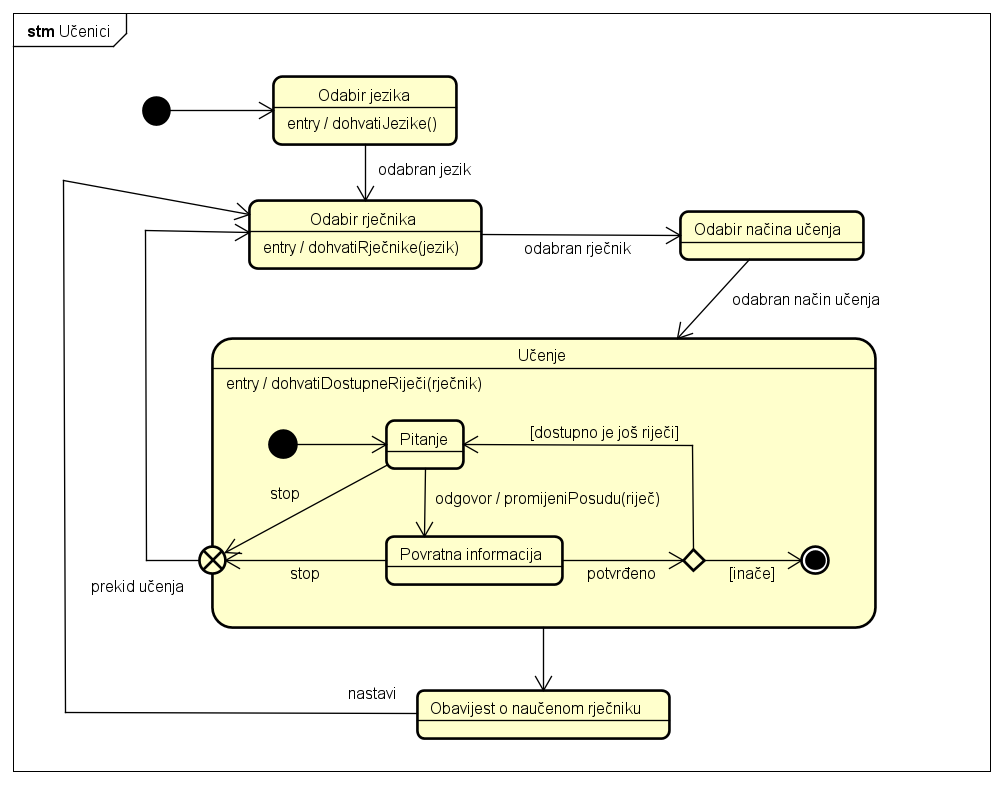
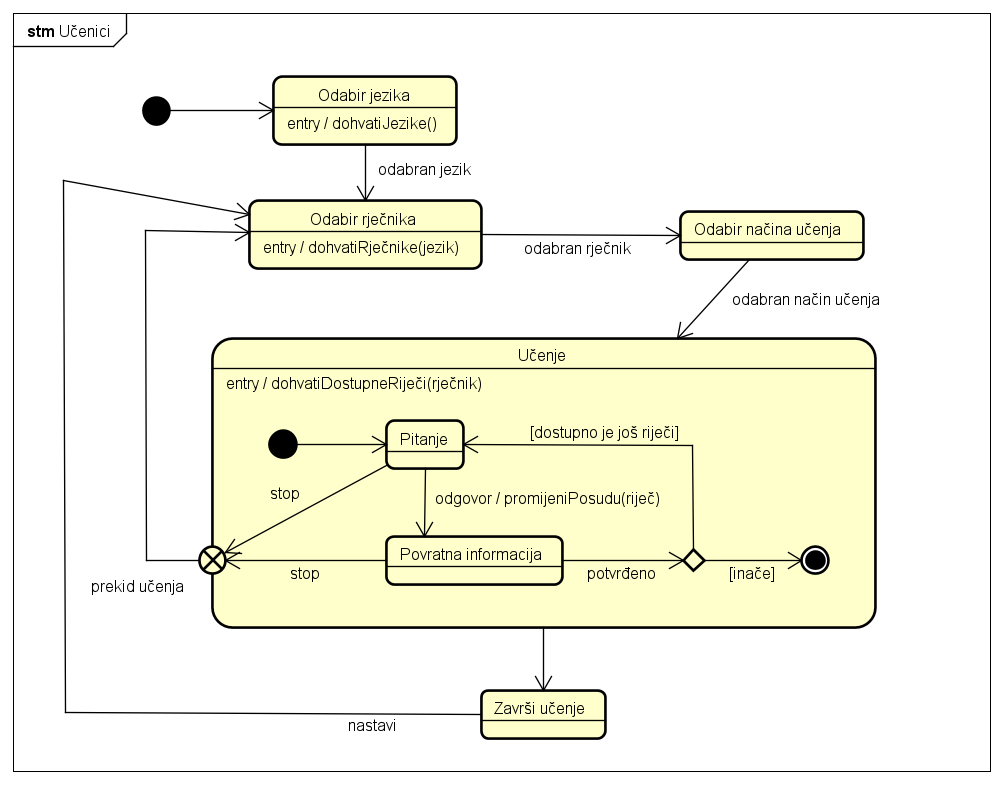
Dodao opise za preostale dijagrame

Changed region(s): [[0.3396, 0.8561, 0.6793, 0.9478], [0.247, 0.8866, 0.3088, 0.9172]]

diff --git a/dokumentacija/Arhitektura.tex b/dokumentacija/Arhitektura.tex
@@ -289,7 +289,7 @@ koja provjerava promjenu lozinke. Atributi su privatni i razred ima javni konstr
 
 \subsection{Razredi na frontendu}
 
-Razredi na frontend dijelu aplikacije podijeljeni su u tri skupine. Isječke (slices) u kojima se spremaju podaci tipa Models, a čije metode primaju podatke iz Inputs skupine razreda. Kako su isječci međusobno neovisni i radi preglednosti razredi na klijentskom dijelu aplikacije prikazani su u nekoliko dijagrama, ovisno o isječku s kojim su povezani.
+Razredi na frontend dijelu aplikacije podijeljeni su u tri skupine. Isječke (slices) u kojima se spremaju podaci tipa Models, a čije metode primaju podatke iz Inputs skupine razreda. Kako su isječci međusobno neovisni, ali i radi preglednosti, razredi na klijentskom dijelu aplikacije prikazani su u više dijagrama, ovisno o isječku u kojem se koriste.
 \begin{description}
 	\item[Modeli] su reprezentacije entiteta s backend dijela aplikacije. Backend modeli ne preslikavaju se izravno u odgovarajuće frontend modele, već se proširuju s dodatnim podacima iz povezanih tablica. Tako, primjerice, dok razredi Riječ i Fraza na backendu nisu povezani, razred Riječ na frontendu u sebi ima listu objekata razreda Fraza.
 	\item[Input] razredi predstavljaju \textit{data transfer} objekte. Objekti tog razreda izravno se mogu pohraniti u tijelo HTTP zahtjeva i odgovaraju onoj strukturi u kojoj  pojedina pristupna točka na backendu očekuje primiti podatke.
@@ -361,14 +361,20 @@ Razredi na frontend dijelu aplikacije podijeljeni su u tri skupine. Isječke (sl
 \clearpage
 
 \section{Dijagram stanja}
-	
-	
+
+Slika \ref{fig:state-ucenici} prikazuje implementirane funkcionalnosti korisničkog sučelja za učenike. Učenici započinju učenje tako što redom odabiru jezik, rječnik i način učenja. Kako bi se prikazali dostupni jezici i rječnici, prije ulaska u svako od tih stanja poziva se metoda koja dohvaća odgovarajuće podatke iz baze podatka. Netom prije početka učenja dohvaćaju se sve riječi koje su učeniku trenutno dostupne za učenje.
+
+Tijekom učenja učeniku se naizmjence prikazuju pitanja i povratne informacije o unesenim odgovorima sve dok ima dostupnih riječi ili dok učenik ne zaustavi učenje. Nakon unesenog odgovora poziva se metoda koja premješta riječ u odgovarajuću posudu. Učenik može zaustaviti učenje prije i nakon odgovora na pitanje, pri čemu odlazi u stanje za odabir rječnika. U to stanje odlazi i nakon što je odgovorio na sve trenutno dostupne riječi. 
+
 \begin{figure}[htp]
-\includegraphics[scale=0.5]{dijagrami/state_ucenici.png}
-\centering
-\caption{Dijagram stanja - sučelje za učenike}
-\label{fig:state-ucenici}
-\end{figure}
+	\includegraphics[scale=0.5]{dijagrami/state_ucenici.png}
+	\centering
+	\caption{Dijagram stanja - sučelje za učenike}
+	\label{fig:state-ucenici}
+	\end{figure}
+
+Stanja administratorskog sučelja prikazana su Slikom \ref{fig:state-admin} Četiri glavna stanja u kojima se to sučelje može nalaziti su  \emph{Odabir jezika}, |emph{Popis administratora}, \emph{Popis rječnika} i \emph{Popis riječi}. Administrator može doći u svako od tih stanja preko navigacijske trake, a ulaskom u to stanje dohvaćaju se podaci koji se trebaju prikazati na sučelju. Izuzev odabira jezika, administrator u svakom od tih stanja može brisati i stvarati odgovarajuće zapise. Pri stvaranju riječi dohvaćaju se podaci iz vanjskog API-ja i mogu se dodavati ili brisati fraze. Riječi i rječnici mogu se uređivati. Uređivanjem rječnika administrator iz njega uklanja riječi ili dodaje nove.
+
 
 \begin{figure}[htp]
 \includegraphics[scale=0.4]{dijagrami/state_administratori.png}
@@ -377,10 +383,12 @@ Razredi na frontend dijelu aplikacije podijeljeni su u tri skupine. Isječke (sl
 \label{fig:state-admin}
 \end{figure}
 	
-	
+\eject
 
 
 \section{Dijagram aktivnosti}
+
+Slikom \ref{fig:aktivnosti-izgovor} prikazano je učenje snimanjem izgovora. Odabirom načina učenja aplikacija dohvaća dostupne riječi i učeniku prikazuje pitanje. Nakon što učenik snimi izgovor i potvrdi unos, sustav obrađuje njegov odgovor: servis za ocjenjivanje izgovora analizira unos i vraća ocjenu, dok se učeniku prikazuje tijek obrade. U slučaju da je ocjena strogo manja od 5, riječ se prebacuje u prvi posudu. U protivnom se riječ prebacuje u sljedeću posudu ako ona postoji, inače se označava kao u potpunosti naučena. Promjena posude sprema se u bazu podataka, a zatim se učeniku prikazuje ocjena. Klikom na gumb završi učenje aplikacija preusmjerava korisnika na stranicu s popisom rječnika.
 	
 \begin{figure}[htp]
 \includegraphics[scale=0.4]{dijagrami/aktivnosti.png}
@@ -393,8 +401,14 @@ Razredi na frontend dijelu aplikacije podijeljeni su u tri skupine. Isječke (sl
 	\eject
 \section{Dijagram komponenti}
 
+Klijentska komponenta aplikacije organizirana je u međusobno neovisne module za pohranu stanja aplikacije i jedne upravljačke komponente preko kojeg moduli komuniciraju s ostatkom aplikacije. Svaki modul zadužen je za određeni isječak cijelog stanja aplikacije. Upravljačka komponenta nudi sučelje preko kojeg preglednik može dohvaćati podatke o stanju, a zahtjeva sučelje preko kojeg može slati zahtjeve na krajnje točke serverskog dijela aplikacije. 
+
+Serverska komponenta sadrži upravljačku komponentu Flask za primanje i obradu HTTP zahtjeva. Metode te komponente koriste modul SQLAlchemy za izvršavanje SQL upita i pristup bazi podataka. Baza podataka nudi određeno sučelje, a SQLAlchemy ga zahtijeva. Komponenta Flask pri obradi određenih zahtjeva komunicira sa servisom za ocjenu izgovora i mail poslužiteljem te od njih zahtijeva REST\_API sučelje.
+
+
 \begin{figure}[htp]
-\includegraphics[scale=0.4]{dijagrami/ComponentDiagram0.png}
+\includegraphics[scale=0.35]{dijagrami/ComponentDiagram0.png}
 \centering
 \caption{Dijagram komponenti}
+\label{fig:komponente}
 \end{figure}
